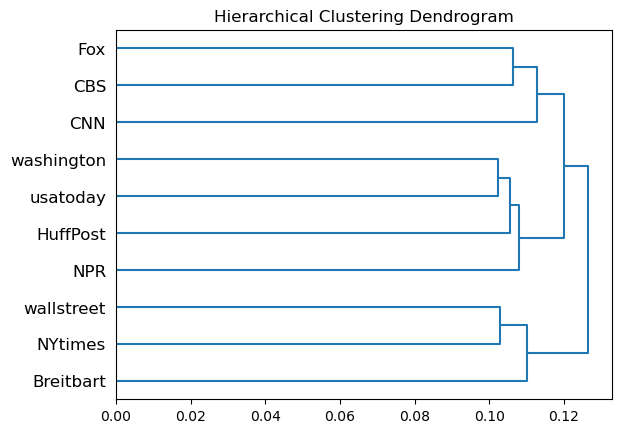
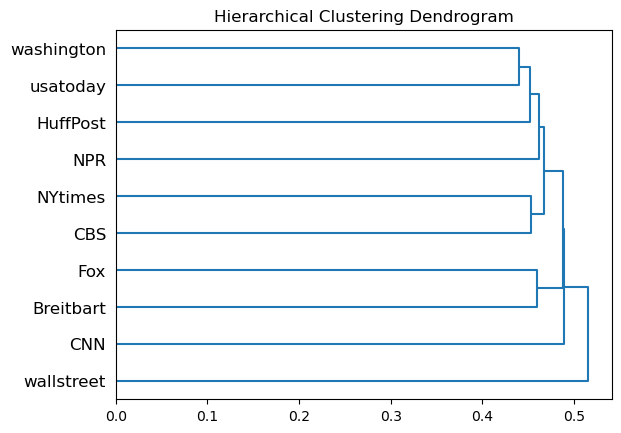
source as the base

diff --git a/program/run_function.py b/program/run_function.py
@@ -448,10 +448,10 @@ def label_score_analysis(
             plt.savefig(plt_file, bbox_inches='tight')
             plt.close()
     else:
-        base_model = joblib.load('log/baseline/model/baseline_trust_article.c')
+        base_model = joblib.load('log/baseline/model/baseline_source_article.c')
         model_list['base'] = base_model
         base_model = joblib.load(
-            'log/baseline/model/baseline_source_article.c')
+            'log/baseline/model/baseline_trust_article.c')
         model_list['distance_base'] = base_model
         cluster_compare = ClusterCompare(misc_args, analysis_args)
         analysis_result = cluster_compare.compare(model_list)
